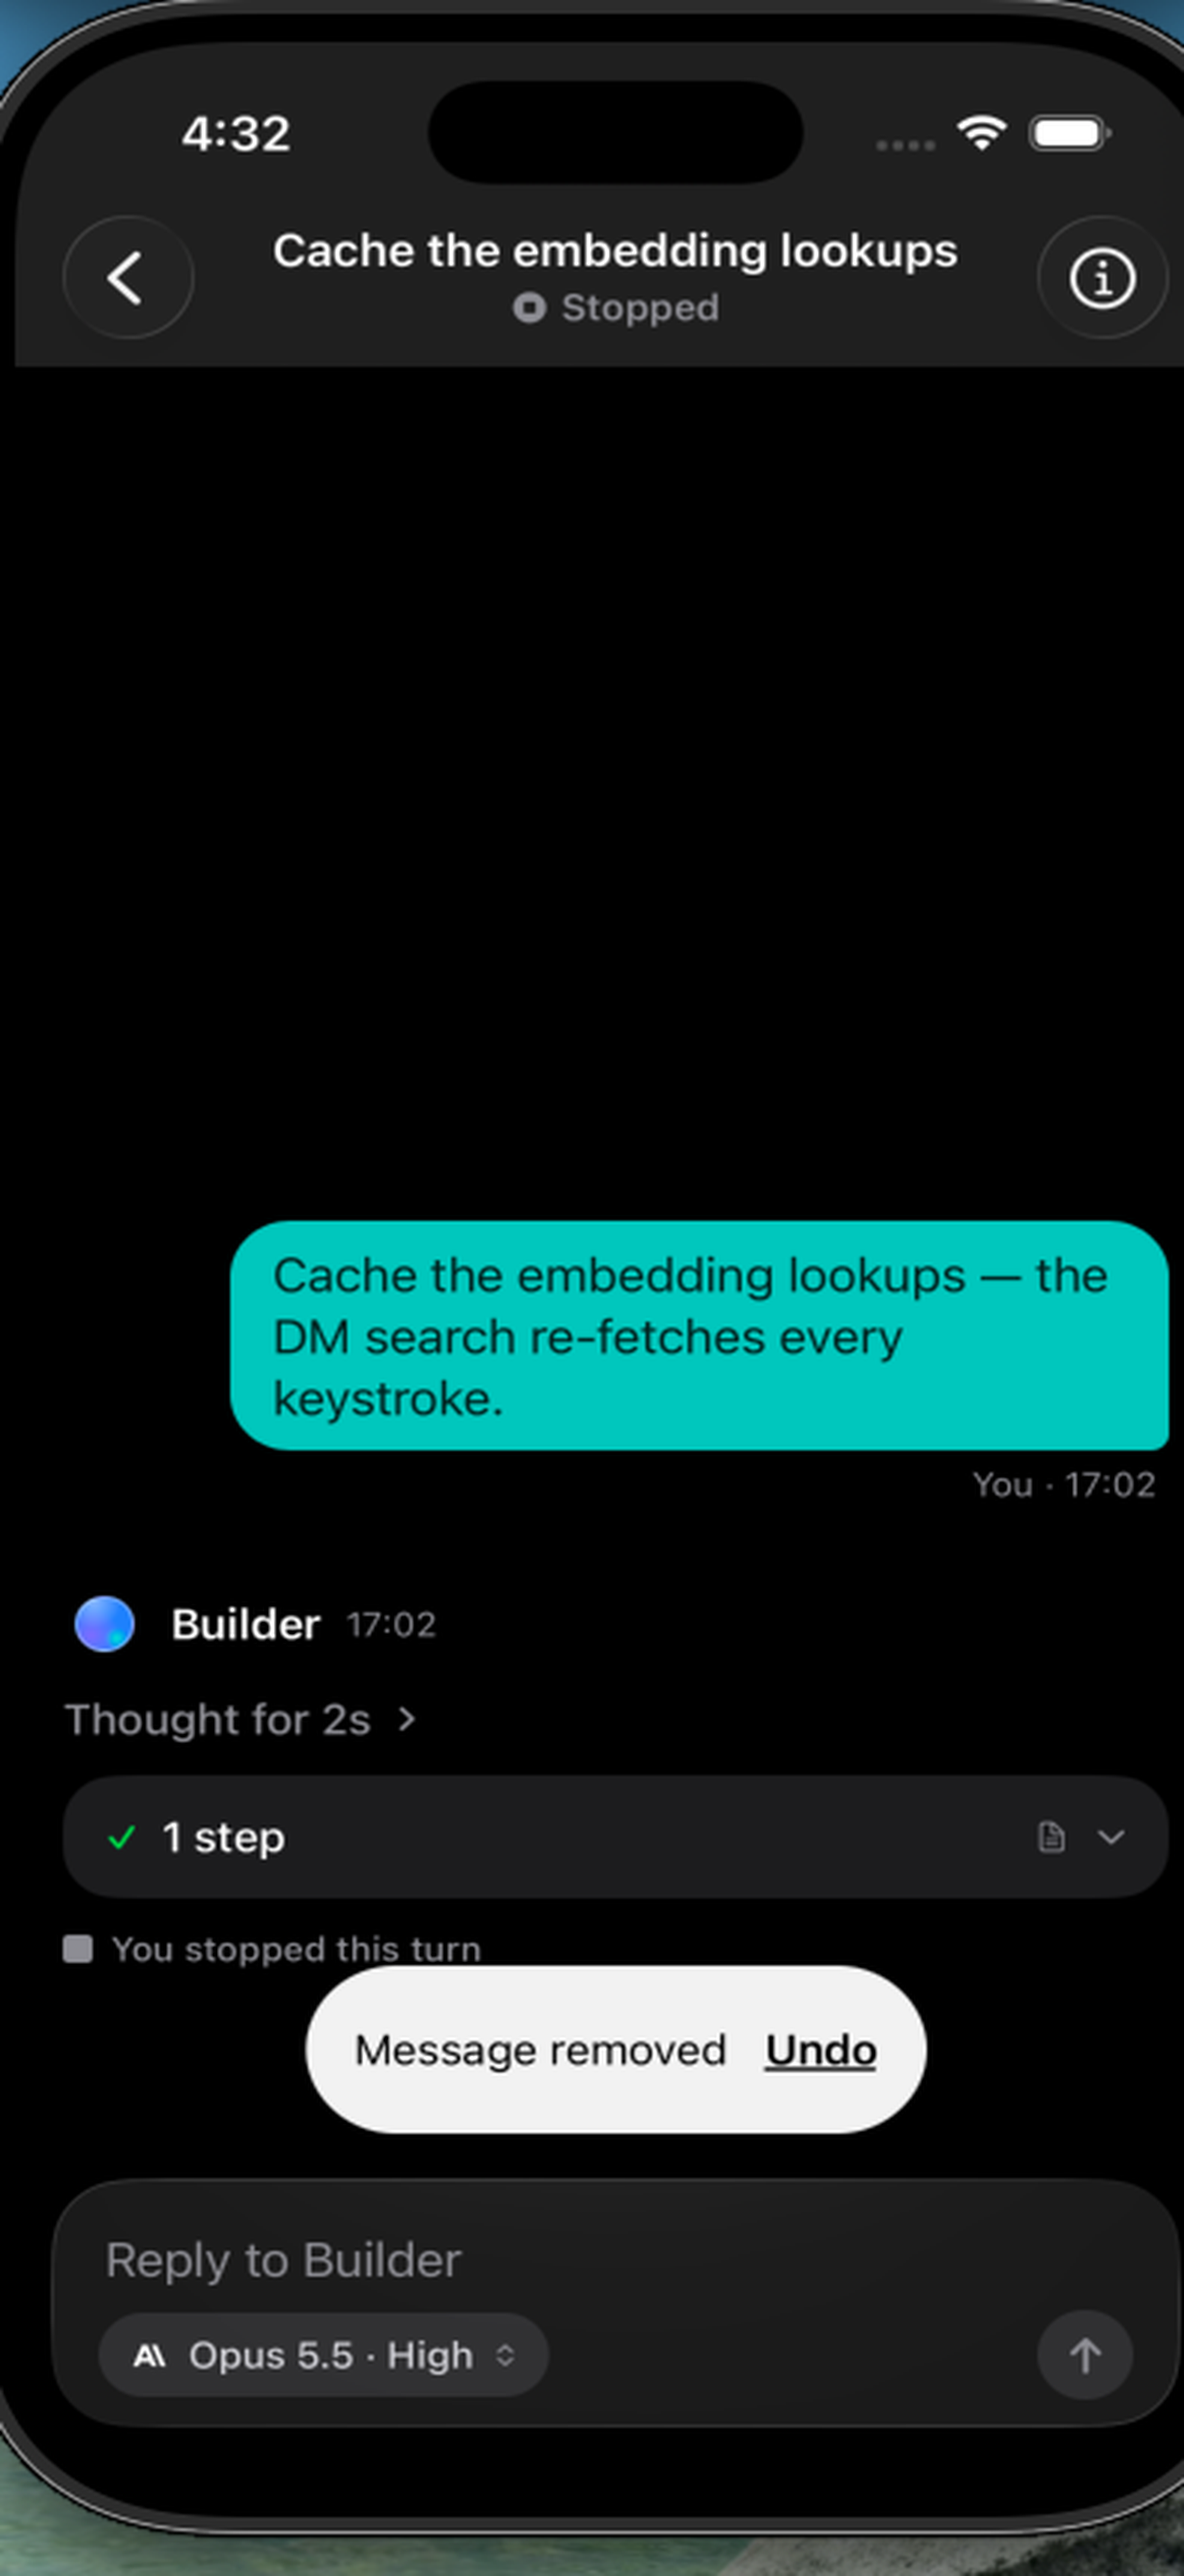
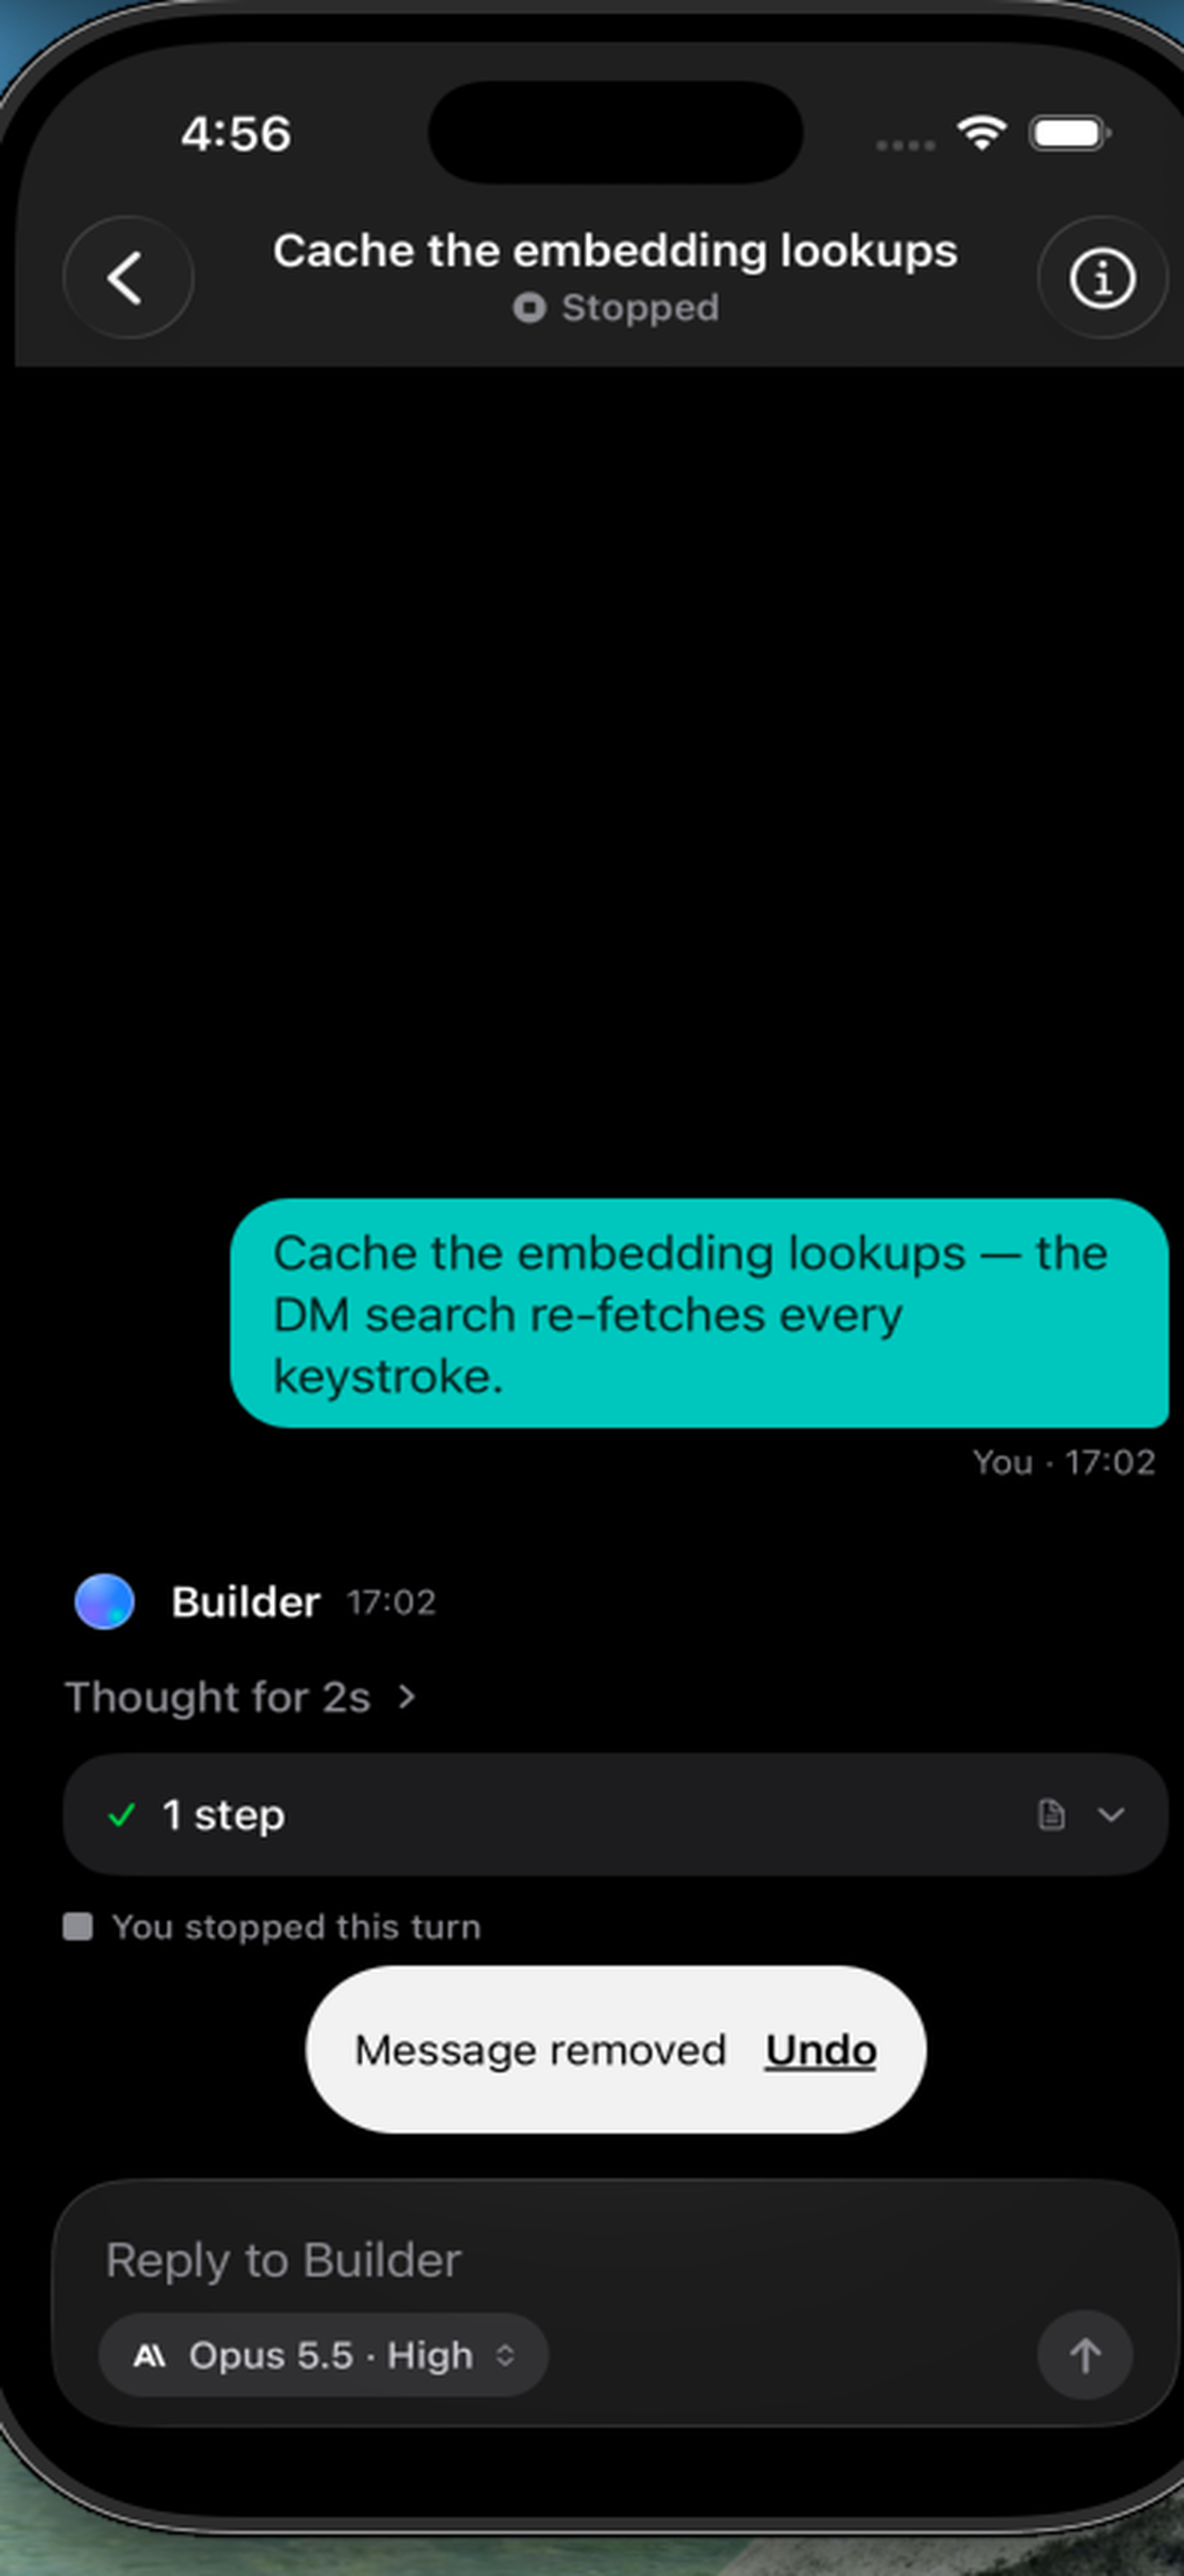
ui-native: onLayout-measure the Undo toast's inset reserve; silence intended RNScreens warn
- toastHeight via onLayout (like the tray); REMOVED_TOAST_H drops to a
  48pt floor for the unmeasured first frame — the real ~56pt pill no
  longer sits flush against the last transcript row
- thread-layout test feeding a measured toast height (96+56+8)
- prototype entry ignores the RNScreens blurEffect+scrollEdgeEffects
  nag — CHAT_HEADER stacks them on purpose; silences the dev LogBox
  bar that covered the composer in captures
- re-shot ac2-not-sent-undo light+dark (pill live, clear of the row)

Changed region(s): [[0.0307, 0.587, 0.9818, 0.7723], [0.1841, 0.4634, 1.0, 0.587], [0.1534, 0.0309, 0.2454, 0.0618]]

diff --git a/packages/ui-native/src/employees/thread-screen.tsx b/packages/ui-native/src/employees/thread-screen.tsx
@@ -38,7 +38,10 @@ import { WorkbenchCard } from "./workbench-card";
 const HIT_TOP_GAP = 12;
 /* The Remove toast's visible window before the remove stands. */
 const REMOVED_TOAST_MS = 5000;
-const REMOVED_TOAST_H = 40;
+/* Floor for the Undo toast's inset reserve until onLayout reports — the
+   pill (py-2 + sm text) lands ~48-56pt tall, so a 0 first frame would
+   still park the last row under it. The measured height wins. */
+const REMOVED_TOAST_H = 48;
 /* Floor for the not-sent tray's inset reserve while its real height is
    unmeasured (onLayout can report 0 or land a frame late — a 0 reserve
    parks the last transcript row under the tray). Header + one wrapped
@@ -157,6 +160,7 @@ export function ThreadScreen({
   const [pillHeight, setPillHeight] = useState(0);
   const [noteHeight, setNoteHeight] = useState(0);
   const [trayHeight, setTrayHeight] = useState(0);
+  const [toastHeight, setToastHeight] = useState(0);
   /* #555: search-hit navigation — each row's scroll offset lands here;
      while the pending target is pending, EVERY scroll keeps it centred
      (content still grows under it — scrollToEnd would steal it back),
@@ -273,7 +277,7 @@ export function ThreadScreen({
     pill ? pillHeight : 0,
     unreachableNote ? noteHeight : 0,
     parked.length ? Math.max(trayHeight, TRAY_MIN_H) : 0,
-    removed ? REMOVED_TOAST_H : 0,
+    removed ? Math.max(toastHeight, REMOVED_TOAST_H) : 0,
   );
   /* The pending hit re-centres on each layout pass until the content
      settles; a beat after the first centre it flashes and stands down. */
@@ -462,9 +466,12 @@ export function ThreadScreen({
           {removed && (
             /* #555: Remove's ~5s Undo — an inverted pill above the
                composer, gone on its own (web keeps the deleted row's
-               toast slot). Its height is a fixed reserve in the bottom
-               inset — the last row never sits under it. */
-            <View className="mx-4 items-center">
+               toast slot). Its measured height reserves room in the
+               bottom inset — the last row never sits under it. */
+            <View
+              className="mx-4 items-center"
+              onLayout={(e) => setToastHeight(e.nativeEvent.layout.height)}
+            >
               <View className="flex-row items-center gap-3 rounded-full bg-foreground/95 px-4 py-2">
                 <AppText size="sm" className="text-background">
                   Message removed

diff --git a/packages/ui-native/test/thread-layout.test.ts b/packages/ui-native/test/thread-layout.test.ts
@@ -19,6 +19,12 @@ describe("threadBottomInset — tray + toast feed the bottom inset", () => {
     expect(threadBottomInset(96, 0, 0, 0, 40)).toBe(96 + 40 + 8);
   });
 
+  it("uses the toast's onLayout-measured height, not a smaller floor", () => {
+    /* Vision review: the fixed 40pt reserve left the pill flush against
+       "You stopped this turn" — a real ~56pt pill needs its own number. */
+    expect(threadBottomInset(96, 0, 0, 0, 56)).toBe(96 + 56 + 8);
+  });
+
   it("stacks tray and toast together above the composer", () => {
     expect(threadBottomInset(96, 0, 0, 72, 40)).toBe(96 + 72 + 8 + 40 + 8);
   });

diff --git a/prototype/mobile/index.ts b/prototype/mobile/index.ts
@@ -1,5 +1,14 @@
 import { registerRootComponent } from "expo";
+import { LogBox } from "react-native";
 
 import App from "./src/App";
+
+/* CHAT_HEADER stacks blurEffect with a bottom-only scrollEdgeEffect on
+   purpose (see src/App.tsx — the bar needs the full material). Newer
+   RNScreens warns about the combination anyway; it's the intended look,
+   so the dev LogBox nag is silenced here rather than removed. */
+LogBox.ignoreLogs([
+  "Using both `blurEffect` and `scrollEdgeEffects` simultaneously may cause overlapping effects",
+]);
 
 registerRootComponent(App);
